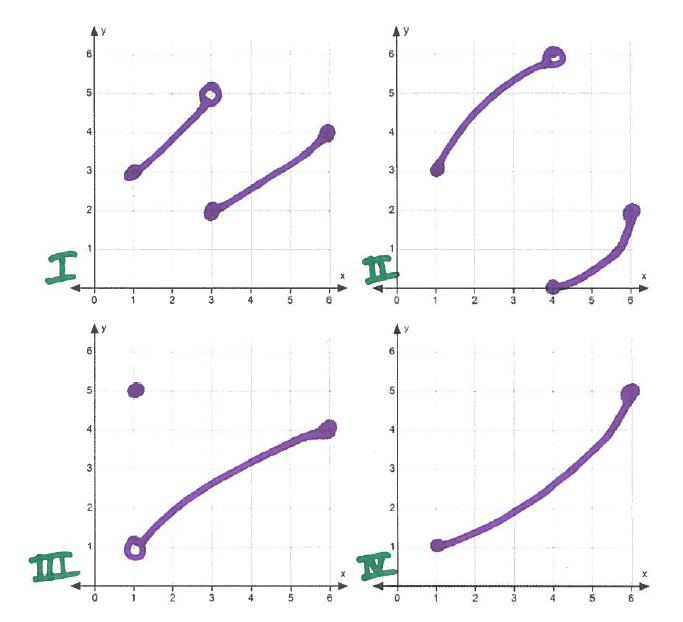
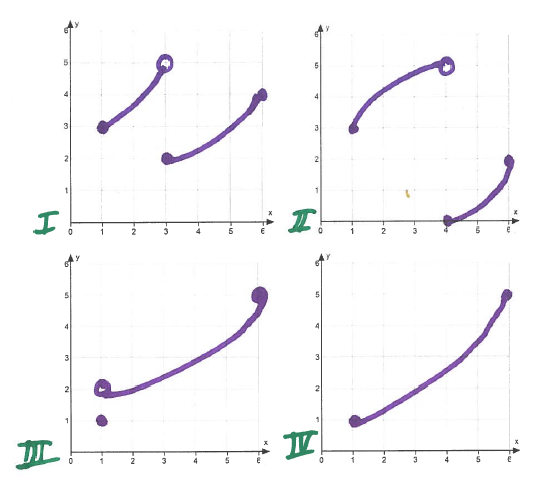
2.6 corrections

diff --git a/AU16/briggs2.6Continuity/Continuity.tex b/AU16/briggs2.6Continuity/Continuity.tex
@@ -1,4 +1,4 @@
-\documentclass[nooutcomes,handout]{ximera}
+\documentclass[nooutcomes]{ximera}
 %% handout
 %% space
 %% newpage
@@ -70,7 +70,7 @@ $g$ is continuous at $t = 1$:
 \[ \lim_{t \to 1^+} g(x)=g(1) = 4 \ln(1) = 0\]
 
 
-Because $\lim_{t \to 1} g(t)=g(1)$, $g$ is continuous on the intervals \[(-\infty, -3), [-3, -2), (-2, \infty)\]
+$g$ is continuous on the intervals \[(-\infty, -3), [-3, -2), (-2, \infty)\]
   \end{freeResponse}
 	
 		
@@ -107,7 +107,7 @@ That is,
 	\implies & \lim_{x \to 0} f(x)=-1=\frac{-b}{5} \implies b=5
 	\end{align*}
 
-and $f(0)=-1$
+and $f(0)=-1$. Now we have found that  $\lim_{x \to 0} f(x)=f(0)=1$.
 	
 	\end{freeResponse}
 \end{problem}
@@ -126,7 +126,7 @@ and $f(0)=-1$
     \end{align*}
   Define $f(x) =  x^3 - x - \sin(x) - 1$.
 
-    Since $f(0) = (0)^3 - (0) - \sin(0)-1 = -1$,  $f(\pi) = \pi^3 - \pi - \sin(\pi)-1 = \pi(\pi^2 - 1) - 1 > 3 \cdot (3^2 - 1) - 1 = 23$, and $f$ is continuous on $[0, \pi]$, the Intermediate Value Theorem implies there is some $c$ with $0 < c < \pi$ such that $f(c) = 0$, that is, $c^3 = c + \sin (c) + 1$.
+    Since $f(0) = (0)^3 - (0) - \sin(0)-1 = -1$,  $f(\pi) = \pi^3 - \pi - \sin(\pi)-1 = \pi(\pi^2 - 1) - 1 > 3 \cdot (3^2 - 1) - 1 = 23$, and $f$ is continuous on $[0, \pi]$, the Intermediate Value Theorem implies there is some $c$ with $0 < c < \pi$ such that $f(c) = 0$, that is, $c^3 = c + \sin (c) + 1$.  So a possible interval is $[0,\pi]$.  Note: There are many possible solutions. e.g. $[1,4]$, etc.
 
 	\begin{image}
 	\includegraphics[scale=.5]{Figure3.png}
@@ -343,29 +343,92 @@ Thus $h(u)$ is not continuous at $u=4$. Remark: Since $\lim_{u \to 4^+} h(u)=h(4
 	\end{enumerate}
 \end{problem}
 
+
 %problem8
 \begin{problem}
-	Given the four functions on the interval $[1,6]$, answer the questions below.
+Suppose a taxi ride costs $\$7.50$ for the first mile (or any part of the first mile), plus an additional $\$1.00$ for each additional mile (or any part of a mile).
+\begin{enumerate}
+	\item Graph the function $c=f(t)$ that gives the cost of a taxi ride for $t$ minutes, for $0 \le t \le 5$.
+		\begin{freeResponse} \hfil
+	\begin{image}
+	\includegraphics[scale=.5]{Figure5.png}
+	\end{image}
+		\end{freeResponse}
+
+	\item Evaluate $\lim{t \to 2.9}f(t)$
+		\begin{freeResponse}
+$\lim{t \to 2.9}f(t)=9.5$
+		\end{freeResponse}
+	\item Evaluate $\lim{t \to 3^-}f(t)$ and $\lim{t \to 3^+}f(t)$		
+		\begin{freeResponse}
+$\lim{t \to 3^-}f(t)=9.5$ and $\lim{t \to 3^+}f(t)=10.5$	
+		\end{freeResponse}
+	\item Interpret the meaning of the limits in part (iii).
+		\begin{freeResponse}
+As the number of miles the taxi drives approaches 3, the cost of the taxi ride is \$9.50.  After the taxi ride has past 3 miles and until it passes 4 miles, the cost is \$10.50.
+		\end{freeResponse}
+	\item On what interals is the function $c$ continuous?  Explain.
+		\begin{freeResponse}
+			$(0,1],(1,2],(2,3],(3,4],(4,5]$
+		\end{freeResponse}
+\end{enumerate}
+\end{problem}
+
+%problem9
+\begin{problem} \hfil
+\begin{enumerate}
+
+\item Given function $f$ on an interval $[a,b]$:
+
+\begin{enumerate}
+\item What are the conditions of the Intermediate Value Theorem?
+
+	\begin{freeResponse}
+$f$ is continuous on the interval $[a,b]$ and $L$ is a number strictly between $f(a)$ and $f(b)$.
+	\end{freeResponse}
+\item What is the conclusion of the Intermediate Value Theorem?
+	\begin{freeResponse}
+There is at least one number $c$ in $(a,b)$ satisfying $f(c)=L$ \\\\
+	\end{freeResponse}
+
+\end{enumerate}
+	\item Given the four functions on the interval $[1,6]$, answer the questions below.
 	
 	\begin{image}
-	\includegraphics[scale=.5]{Figure2.png}
+	\includegraphics[scale=.6]{Figure2.png}
 	\end{image}
 
-	\begin{enumerate}
-	\item Which of the functions satisfy the conditions of the Intermediate Value Theorem on $[1,6]$
+\begin{enumerate}
+	\item For each of the functions I through IV, indicate $f(1)$ and $f(6)$.  Then mark the interval of all numbers stricly between $f(1)$ and $f(6)$, on the y-axis.
+	\begin{image}
+	\includegraphics[scale=.6]{Figure4.png}
+	\end{image}
+
+
+	\item For each of the functions I through IV, write an interval of all numbers stricly between $f(1)$ and $f(6)$
+		\begin{freeResponse}
+		$f=I$: $(3,4)$\\
+		$f=II$: $(2,3)$\\
+		$f=III$: $(1,5)$\\
+		$f=IV$: $(1,5)$
+		\end{freeResponse}
+	\item List the functions that satisfy the conditions of the Intermediate Value Theorem on $[1,6]$
 		\begin{freeResponse}
 		Only function IV is continuous on $[1,6]$
 		\end{freeResponse}
-	\item For which of the functions is the following statement true:  For any number $L$ strictly between $f(1)$ and $f(6)$, there exists a number $c$ in $(1,6)$ satisfying $f(c)=L$.
+	\item For which of the functions is the following statement true: For any number $L$ strictly between $f(1)$ and $f(6)$, there exists a number $c$ in $(1,6)$ satisfying $f(c)=L$.
 		\begin{freeResponse}
-		Functions I and IV satisfy the given statement.
-		\end{freeResponse}
-	\item Explain the difference between the Intermediate Value Theorem and the statement in part b.
-		\begin{freeResponse}
-		If the function is continuous on $[a,b]$, the IVT guarentees that the statement is true.  If the function is not continuous on $[a,b]$, it is not guarenteed.  For example, check II at $y=2.5$ and III at $y=4.5$
+		Functions I and IV satisfy the condition.
 		\end{freeResponse}
 
+	\item Does the function III satisfy the conclusion of the Intermediate Value Theorem?  Why or why not?
+	No, function III does not satisfy the conclusion of the IVT.  For example, take $L=1.5$.  $f(2.5)$ does not exist.
+	
+
+
 	\end{enumerate}
+\end{enumerate}
+
 \end{problem}
 \end{document} 
 

diff --git a/AU16/briggs3.11RelatedRates/relatedRatesSolutions.tex b/AU16/briggs3.11RelatedRates/relatedRatesSolutions.tex
@@ -227,7 +227,7 @@ A conical water tank of height 10 feet and radius 4 feet is being drained throug
 	\item Let $r$ be the radius of the water at depth $h$.  In the figure above, label $r$ and $h$.
 		\begin{freeResponse} \hfil
 		\begin{image}
-		\includegraphics[scale=.4]{Figure15.png}
+		\includegraphics[scale=.3]{Figure15.png}
 		\end{image}
 		\end{freeResponse}	
 	\item Find an expression for $r$ in terms of $r$.
@@ -260,9 +260,9 @@ A right cone has a fixed slant height (see figure below) of 9 ft.  The cone's he
 	\begin{image}
 	\includegraphics[scale=.5]{Figure8.png}
 	\end{image}
-\begin{freeResponse}
+\begin{freeResponse} \hfil
 	\begin{image}
-	\includegraphics[scale=.5]{Figure9.png}
+	\includegraphics[scale=.4]{Figure9.png}
 	\end{image}
 
 	\begin{align*}

diff --git a/AU16/briggs1.1and1.2/Recitation Briggs 1.1 and 1.2.tex b/AU16/briggs1.1and1.2/Recitation Briggs 1.1 and 1.2.tex
@@ -62,7 +62,7 @@ Define
 			\end{align*}
 	
 	\begin{image}		
-	\includegraphics[scale=.5]{Figure3.pdf}
+	\includegraphics[scale=.5]{Figure3.png}
 	\end{image}
 		
 
